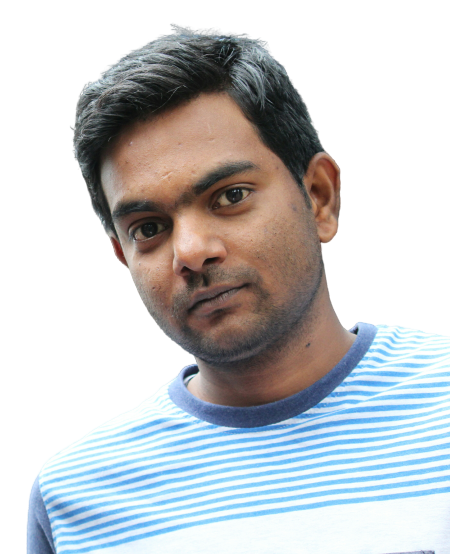
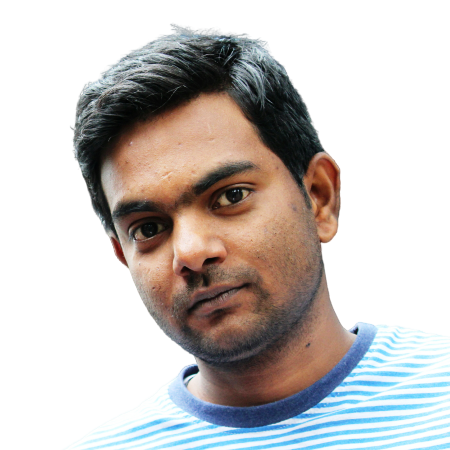
1. updated image alignment and added border radius

diff --git a/src/Components/HomeBanner/HomeBanner.scss b/src/Components/HomeBanner/HomeBanner.scss
@@ -20,6 +20,17 @@
   text-transform: uppercase !important;
 }
 
+.homeBanner-container .homeBanner-left-img {
+  margin: 0 auto;
+  width: 49%;
+  text-align: right;
+  border-radius: 50%;
+}
+
+.homeBanner-container .homeBanner-left-img img {
+  border-radius: 50%;
+}
+
 .homeBanner-container .homeBanner-left-text h3 {
   font-size: 16px;
   font-weight: 400;
@@ -68,10 +79,3 @@
     background-position: right center;
     color: #fff;
   }
-
-.homeBanner-container .homeBanner-left-img {
-  margin: 0 auto;
-  width: 49%;
-  align-self: flex-end !important;
-  text-align: right;
-}

diff --git a/public/index.html b/public/index.html
@@ -10,7 +10,7 @@
     <link href="https://fonts.googleapis.com/css?family=Poppins:100,200,400,300,500,600,700" rel="stylesheet">
     <link href="https://fonts.googleapis.com/css?family=Roboto:300,400,500,600,700,900" rel="stylesheet">
     <link rel="manifest" href="%PUBLIC_URL%/manifest.json" />
-    <title>Chand Pasha</title>
+    <title>Chand Portfolio - Home</title>
   </head>
   <body>
     <noscript>You need to enable JavaScript to run this app.</noscript>
